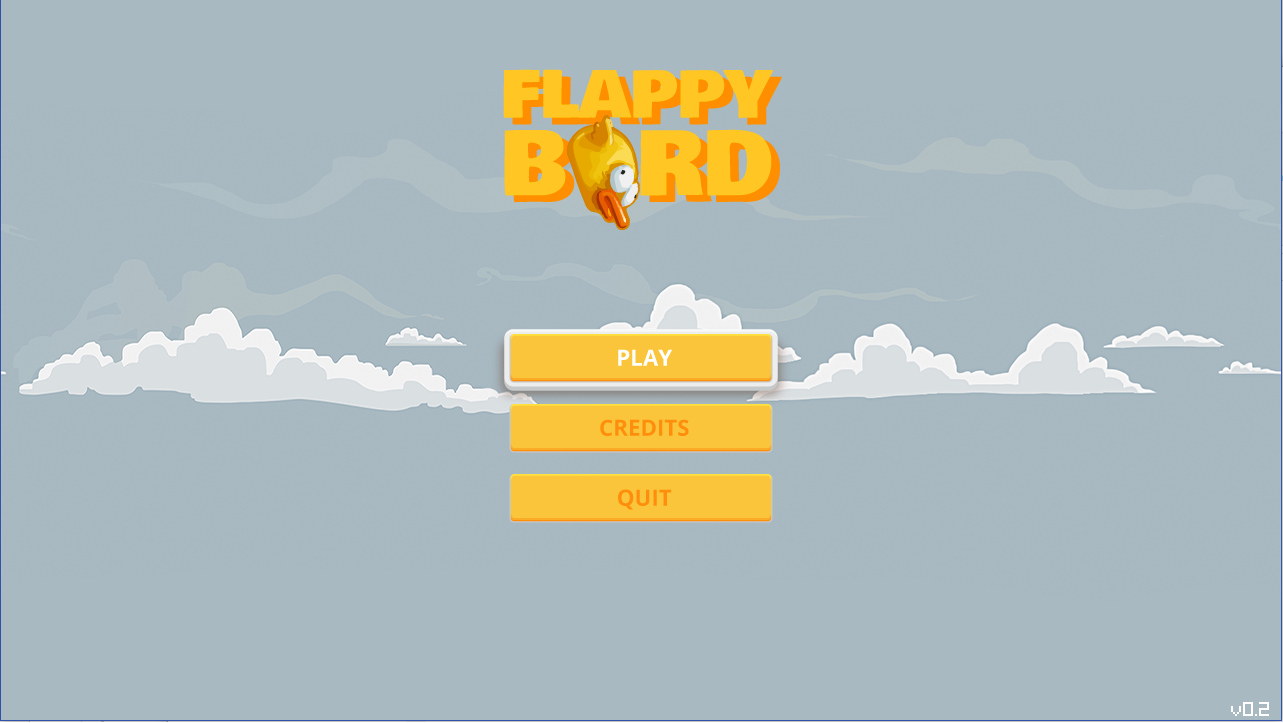
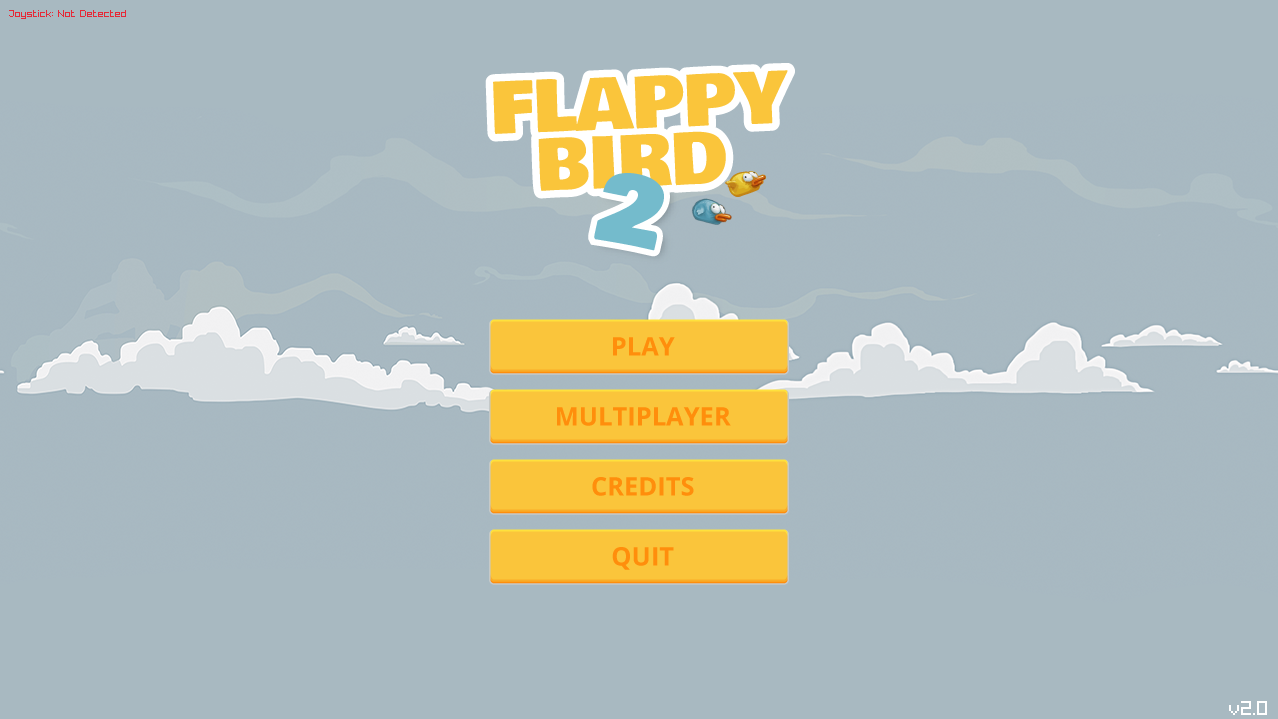
Profile Up to Date

diff --git a/CHANGELOG.md b/CHANGELOG.md
@@ -2,6 +2,20 @@
 
 All notable changes to this project will be documented in this file.
 
+## [2.0] - 2019-07-29
+### Added
+- New Multiplayer CO-OP mode
+- New Hi-Score Persistent Data
+- 100% joystick compatibility PS3/XBOX/Generics
+
+### Changed
+- Better Performance
+- New visuals
+
+### Fixed
+- Minor bugs
+- Code Cleanning
+
 ## [1.1] - 2018-11-26
 ### Fixed
 - Unloadsound bird_flap

diff --git a/README.md b/README.md
@@ -20,6 +20,9 @@ Enjoy!
 <p align="center">
 <img width="1000" src="https://github.com/InsaneFury/flappybird/blob/master/screenshots/4.png">
 </p>
+<p align="center">
+<img width="1000" src="https://github.com/InsaneFury/flappybird/blob/master/screenshots/5.png">
+</p>
 
 # Skills
 - **C++/C# Programmer**
